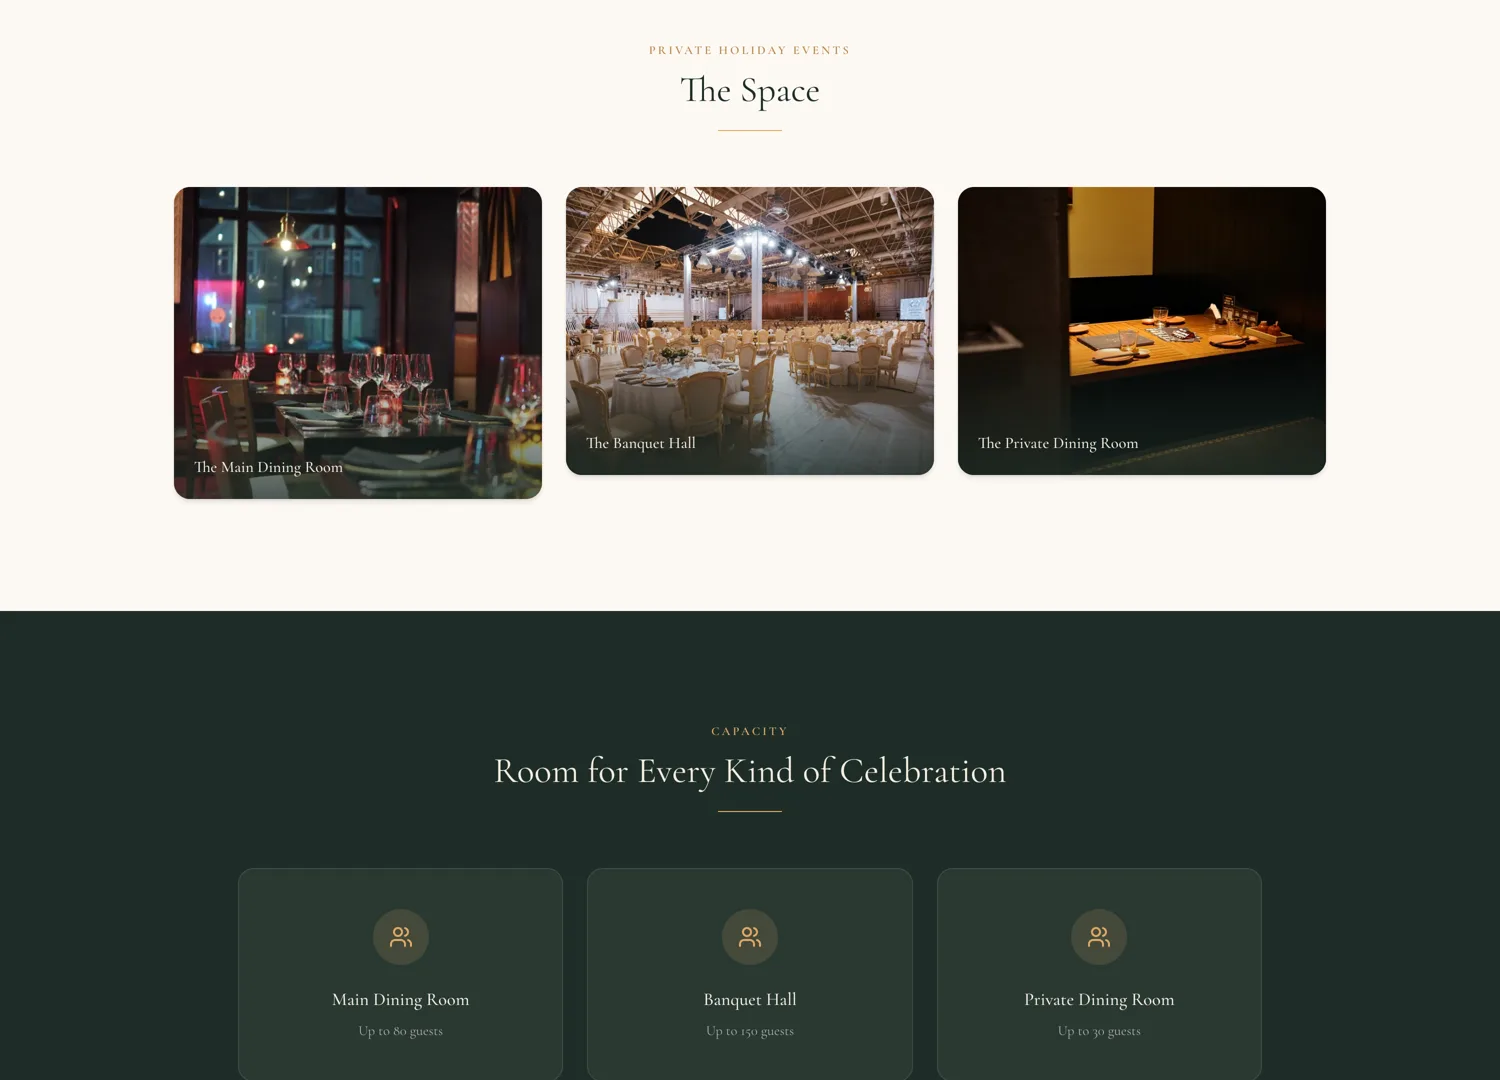
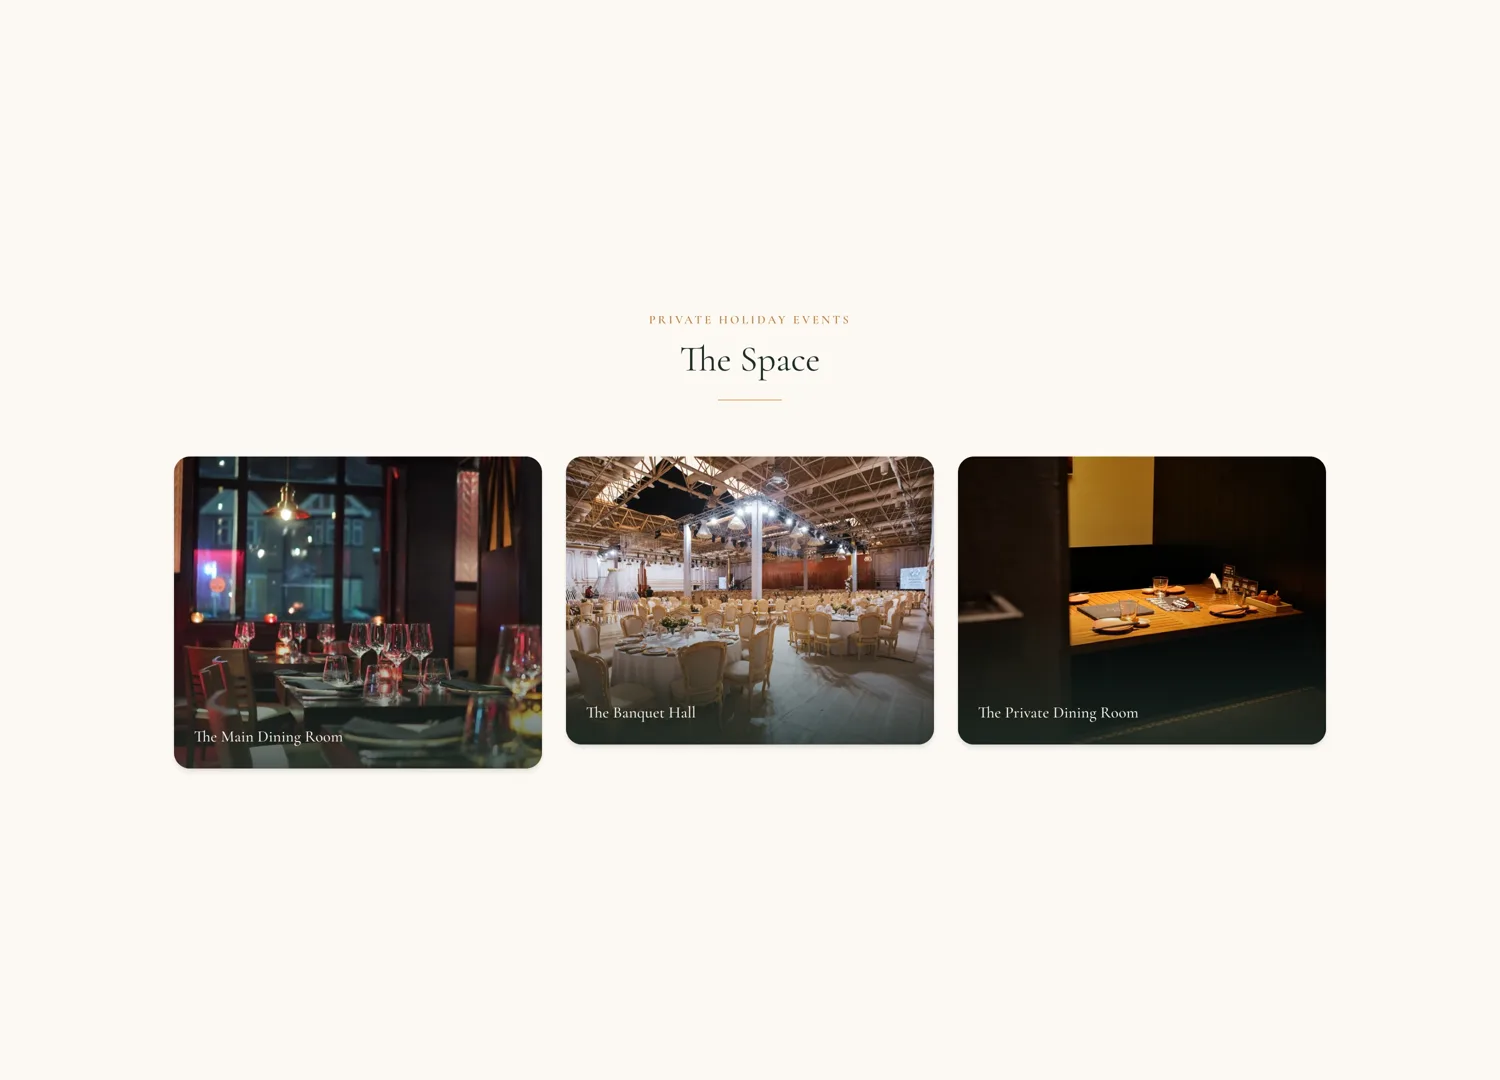
marketing/templates: reframe Private Holiday Parties slides 2 & 3 (no seam)
Both frames crossed a cream/dark section boundary. Recrop each to a single
section on its own background — slide 2 "The Space", slide 3 "Choose Your
Experience" — padded to frame ratio so the seam is gone. Bump gallery
cache-bust v4->v5.

diff --git a/marketing/templates/detail/index.html b/marketing/templates/detail/index.html
@@ -2524,12 +2524,12 @@ function slugify(s) { return s.toLowerCase().replace(/[^a-z0-9]+/g, '-').replace
   for (var s = 0; s < slideCount; s++) {
     if (gallery) {
       slidesHtml += '<div class="detail-gallery-slide">'
-        + '<img class="detail-gallery-shot" src="' + gallery[s] + '?v=4" alt=""'
+        + '<img class="detail-gallery-shot" src="' + gallery[s] + '?v=5" alt=""'
         +   ' loading="' + (s === 0 ? 'eager' : 'lazy') + '" decoding="async">'
         + '</div>';
     } else if (item.shot) {
       slidesHtml += '<div class="detail-gallery-slide">'
-        + '<img class="detail-gallery-shot" src="' + item.shot + '?v=4" alt=""'
+        + '<img class="detail-gallery-shot" src="' + item.shot + '?v=5" alt=""'
         +   ' style="object-position: 50% ' + (s * 50) + '%;"'
         +   ' loading="eager" decoding="async">'
         + '</div>';
